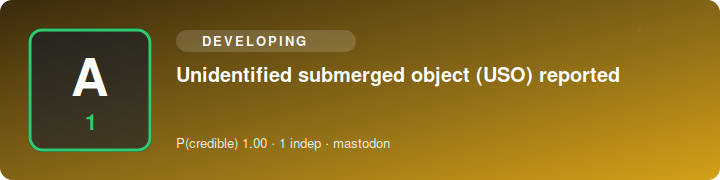
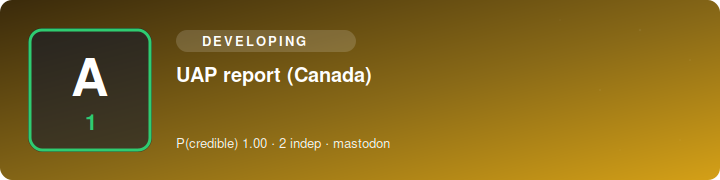
SITREP 2026-08-05 05:40 UTC

Changed region(s): [[0.2444, 0.3611, 0.8861, 0.4722], [0.3667, 0.75, 0.3972, 0.8333]]

diff --git a/index.html b/index.html
@@ -1,1 +1,1 @@
-<!doctype html><meta charset=utf-8><title>Science Bob News — SITREP</title><style>body{font:16px/1.5 system-ui,sans-serif;max-width:760px;margin:2rem auto;padding:0 1rem;color:#111}h1{font-size:1.5rem}h2{margin-top:1.6rem;border-bottom:1px solid #ddd;padding-bottom:.2rem}ul{list-style:none;padding:0}li{margin:.9rem 0}.hl{font-weight:600}.meta{color:#555;font-size:.85rem}.src{font-size:.85rem}.vid{font-size:.85rem;margin-top:.15rem}.card{display:block;max-width:100%;height:auto;border-radius:8px;margin:.4rem 0 .5rem}.upd{background:#fde68a;padding:0 .3rem;border-radius:.2rem;font-size:.75rem}.sub{color:#777;font-size:.85rem}footer{color:#777;font-size:.8rem;margin-top:2rem;border-top:1px solid #ddd;padding-top:.6rem}</style><h1>🛸 Science Bob News</h1><div class="sub">UAP / UFO / USO SITREP · updated 2026-08-05 05:30 UTC · automated</div><h2>Corroborated</h2><ul><li><img class="card" src="https://n4hy.github.io/sciencebobnews-site/card_c_1.svg" alt="" width="720" height="180"><div class="hl">UAP report</div><div class="meta">reliability <b>A1</b> · P(credible)=1.0 · 2 independent source(s) · mastodon</div><div class="src"><a href="https://zirk.us/@Doomscroll/117028230320711419">@Doomscroll@zirk.us</a> · <a href="https://infosec.exchange/@n_dimension/117028016111436423">@n_dimension@infosec.exchange</a></div></li></ul><h2>Developing / unconfirmed</h2><ul><li><img class="card" src="https://n4hy.github.io/sciencebobnews-site/card_d_1.svg" alt="" width="720" height="180"><div class="hl">UAP report</div><div class="meta">reliability <b>A1</b> · P(credible)=1.0 · 1 independent source(s) · mastodon</div><div class="src"><a href="https://mastodon.social/@veryexcitingtime/117028427311169939">@veryexcitingtime</a></div></li><li><img class="card" src="https://n4hy.github.io/sciencebobnews-site/card_d_2.svg" alt="" width="720" height="180"><div class="hl">Official UAP statement reported (Secret)</div><div class="meta">reliability <b>A1</b> · P(credible)=1.0 · 1 independent source(s) · mastodon</div><div class="src"><a href="https://mastodon.au/@vibewire/117038819165119733">@vibewire@mastodon.au</a></div></li><li><img class="card" src="https://n4hy.github.io/sciencebobnews-site/card_d_3.svg" alt="" width="720" height="180"><div class="hl">UAP report</div><div class="meta">reliability <b>A1</b> · P(credible)=1.0 · 1 independent source(s) · mastodon</div><div class="src"><a href="https://mastodon.social/@EarthInsider/117040677741973745">@EarthInsider</a></div></li><li><img class="card" src="https://n4hy.github.io/sciencebobnews-site/card_d_4.svg" alt="" width="720" height="180"><div class="hl">Unidentified submerged object (USO) reported</div><div class="meta">reliability <b>A1</b> · P(credible)=1.0 · 1 independent source(s) · bluesky</div><div class="src"><a href="https://bsky.app/profile/did:plc:2r5qavwg4bgmkrzhagy5rxpj/post/3mscsc4ir6k25">@did:plc:2r5qavwg4bgmkrzhagy5rxpj</a></div></li><li><img class="card" src="https://n4hy.github.io/sciencebobnews-site/card_d_5.svg" alt="" width="720" height="180"><div class="hl">Unidentified submerged object (USO) reported</div><div class="meta">reliability <b>A1</b> · P(credible)=1.0 · 1 independent source(s) · mastodon</div><div class="src"><a href="https://mastodon.social/@ScienceBob/117040664461266126">@ScienceBob</a></div></li></ul><footer><b>Powered by Science Bob News.</b> Free to use with credit (see LICENSE). Headlines are factual restatements in the engine's own words; click sources for originals. Single-origin reposts collapse to one source; prosaic candidates flagged where offered.</footer>
+<!doctype html><meta charset=utf-8><title>Science Bob News — SITREP</title><style>body{font:16px/1.5 system-ui,sans-serif;max-width:760px;margin:2rem auto;padding:0 1rem;color:#111}h1{font-size:1.5rem}h2{margin-top:1.6rem;border-bottom:1px solid #ddd;padding-bottom:.2rem}ul{list-style:none;padding:0}li{margin:.9rem 0}.hl{font-weight:600}.meta{color:#555;font-size:.85rem}.src{font-size:.85rem}.vid{font-size:.85rem;margin-top:.15rem}.card{display:block;max-width:100%;height:auto;border-radius:8px;margin:.4rem 0 .5rem}.upd{background:#fde68a;padding:0 .3rem;border-radius:.2rem;font-size:.75rem}.sub{color:#777;font-size:.85rem}footer{color:#777;font-size:.8rem;margin-top:2rem;border-top:1px solid #ddd;padding-top:.6rem}</style><h1>🛸 Science Bob News</h1><div class="sub">UAP / UFO / USO SITREP · updated 2026-08-05 05:40 UTC · automated</div><h2>Corroborated</h2><ul><li><img class="card" src="https://n4hy.github.io/sciencebobnews-site/card_c_1.svg" alt="" width="720" height="180"><div class="hl">UAP report</div><div class="meta">reliability <b>A1</b> · P(credible)=1.0 · 2 independent source(s) · mastodon</div><div class="src"><a href="https://zirk.us/@Doomscroll/117028230320711419">@Doomscroll@zirk.us</a> · <a href="https://infosec.exchange/@n_dimension/117028016111436423">@n_dimension@infosec.exchange</a></div></li></ul><h2>Developing / unconfirmed</h2><ul><li><img class="card" src="https://n4hy.github.io/sciencebobnews-site/card_d_1.svg" alt="" width="720" height="180"><div class="hl">UAP report</div><div class="meta">reliability <b>A1</b> · P(credible)=1.0 · 1 independent source(s) · mastodon</div><div class="src"><a href="https://mastodon.social/@veryexcitingtime/117028427311169939">@veryexcitingtime</a></div></li><li><img class="card" src="https://n4hy.github.io/sciencebobnews-site/card_d_2.svg" alt="" width="720" height="180"><div class="hl">Official UAP statement reported (Secret)</div><div class="meta">reliability <b>A1</b> · P(credible)=1.0 · 1 independent source(s) · mastodon</div><div class="src"><a href="https://mastodon.au/@vibewire/117038819165119733">@vibewire@mastodon.au</a></div></li><li><img class="card" src="https://n4hy.github.io/sciencebobnews-site/card_d_3.svg" alt="" width="720" height="180"><div class="hl">UAP report</div><div class="meta">reliability <b>A1</b> · P(credible)=1.0 · 1 independent source(s) · mastodon</div><div class="src"><a href="https://mastodon.social/@EarthInsider/117040677741973745">@EarthInsider</a></div></li><li><img class="card" src="https://n4hy.github.io/sciencebobnews-site/card_d_4.svg" alt="" width="720" height="180"><div class="hl">Unidentified submerged object (USO) reported</div><div class="meta">reliability <b>A1</b> · P(credible)=1.0 · 1 independent source(s) · mastodon</div><div class="src"><a href="https://mastodon.social/@ScienceBob/117040664461266126">@ScienceBob</a></div></li><li><img class="card" src="https://n4hy.github.io/sciencebobnews-site/card_d_5.svg" alt="" width="720" height="180"><div class="hl">UAP report (Canada)</div><div class="meta">reliability <b>A1</b> · P(credible)=1.0 · 2 independent source(s) · mastodon</div><div class="src"><a href="https://mstdn.ca/@theyycmonk/117029061136561360">@theyycmonk@mstdn.ca</a> · <a href="https://beige.party/@TresFluke/117028360059260175">@TresFluke@beige.party</a></div></li></ul><footer><b>Powered by Science Bob News.</b> Free to use with credit (see LICENSE). Headlines are factual restatements in the engine's own words; click sources for originals. Single-origin reposts collapse to one source; prosaic candidates flagged where offered.</footer>

diff --git a/sitrep.md b/sitrep.md
@@ -1,5 +1,5 @@
 # 🛸 Science Bob News — UAP / UFO / USO SITREP
-*Updated 2026-08-05 05:30 UTC · auto-generated · sources credited & linked · reliability ratings are automated, not editorial*
+*Updated 2026-08-05 05:40 UTC · auto-generated · sources credited & linked · reliability ratings are automated, not editorial*
 
 ## Corroborated
 
@@ -24,11 +24,11 @@
 
 ![Unidentified submerged object (USO) reported](https://n4hy.github.io/sciencebobnews-site/card_d_4.svg)
 4. Unidentified submerged object (USO) reported — reliability A1 · 1 source(s)  
-   [@did:plc:2r5qavwg4bgmkrzhagy5rxpj](https://bsky.app/profile/did:plc:2r5qavwg4bgmkrzhagy5rxpj/post/3mscsc4ir6k25)
-
-![Unidentified submerged object (USO) reported](https://n4hy.github.io/sciencebobnews-site/card_d_5.svg)
-5. Unidentified submerged object (USO) reported — reliability A1 · 1 source(s)  
    [@ScienceBob](https://mastodon.social/@ScienceBob/117040664461266126)
+
+![UAP report (Canada)](https://n4hy.github.io/sciencebobnews-site/card_d_5.svg)
+5. UAP report (Canada) — reliability A1 · 2 source(s)  
+   [@theyycmonk@mstdn.ca](https://mstdn.ca/@theyycmonk/117029061136561360) · [@TresFluke@beige.party](https://beige.party/@TresFluke/117028360059260175)
 
 ---
 *Powered by Science Bob News. Free to use with credit (see LICENSE). Headlines are factual restatements in the engine's own words — click through to the linked sources for originals. Reposts of a single origin are collapsed to one source; candidate prosaic explanations are flagged where offered.*
